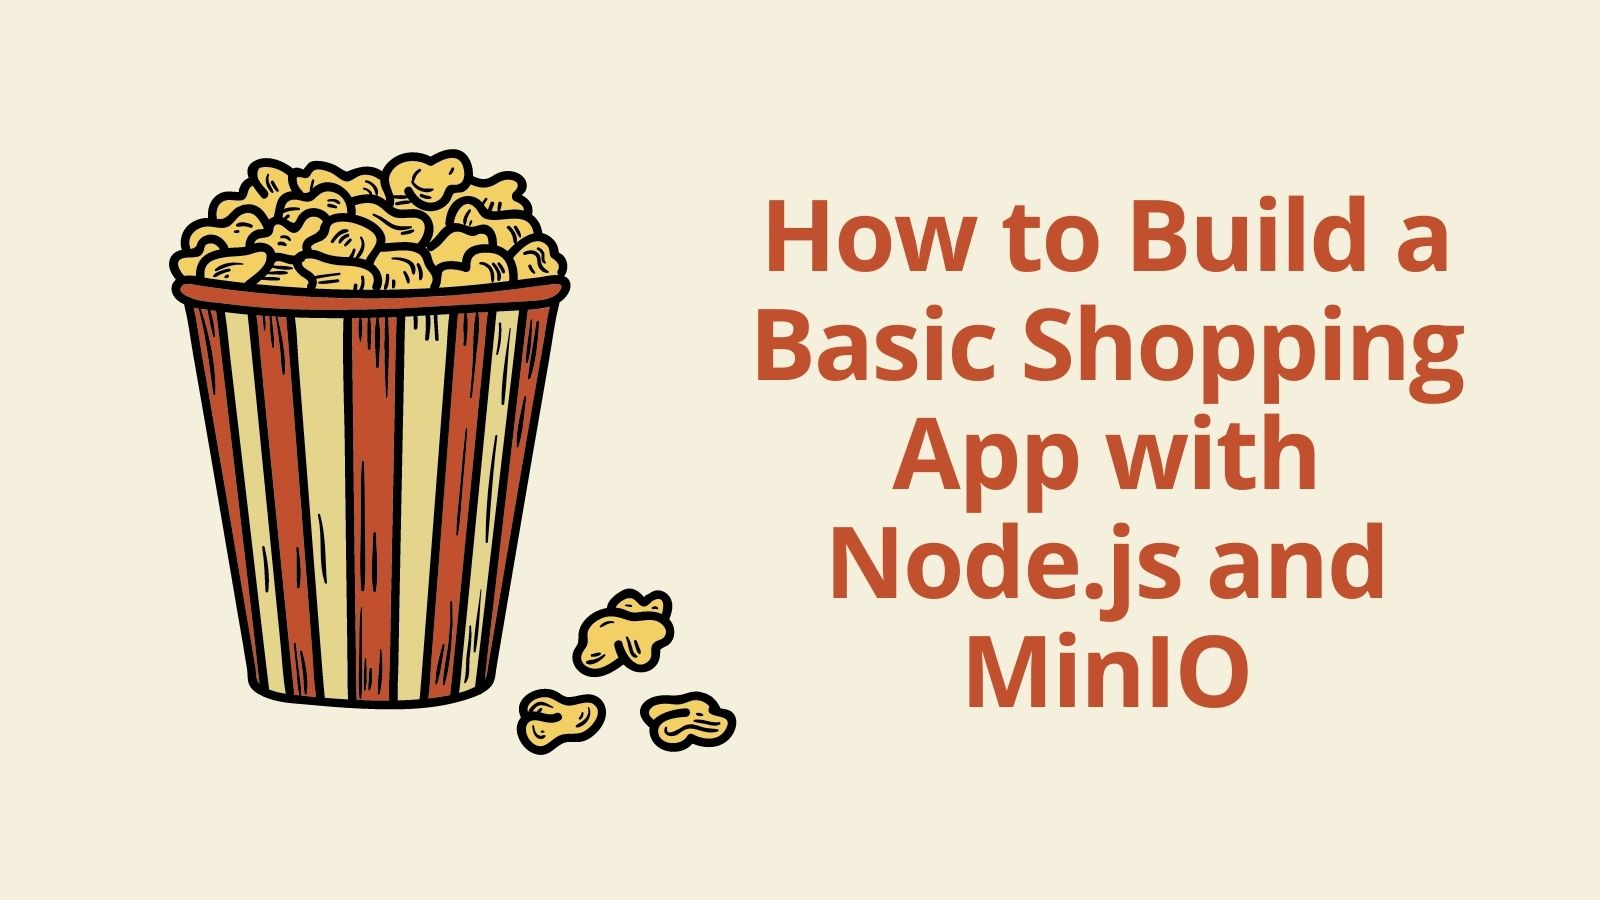
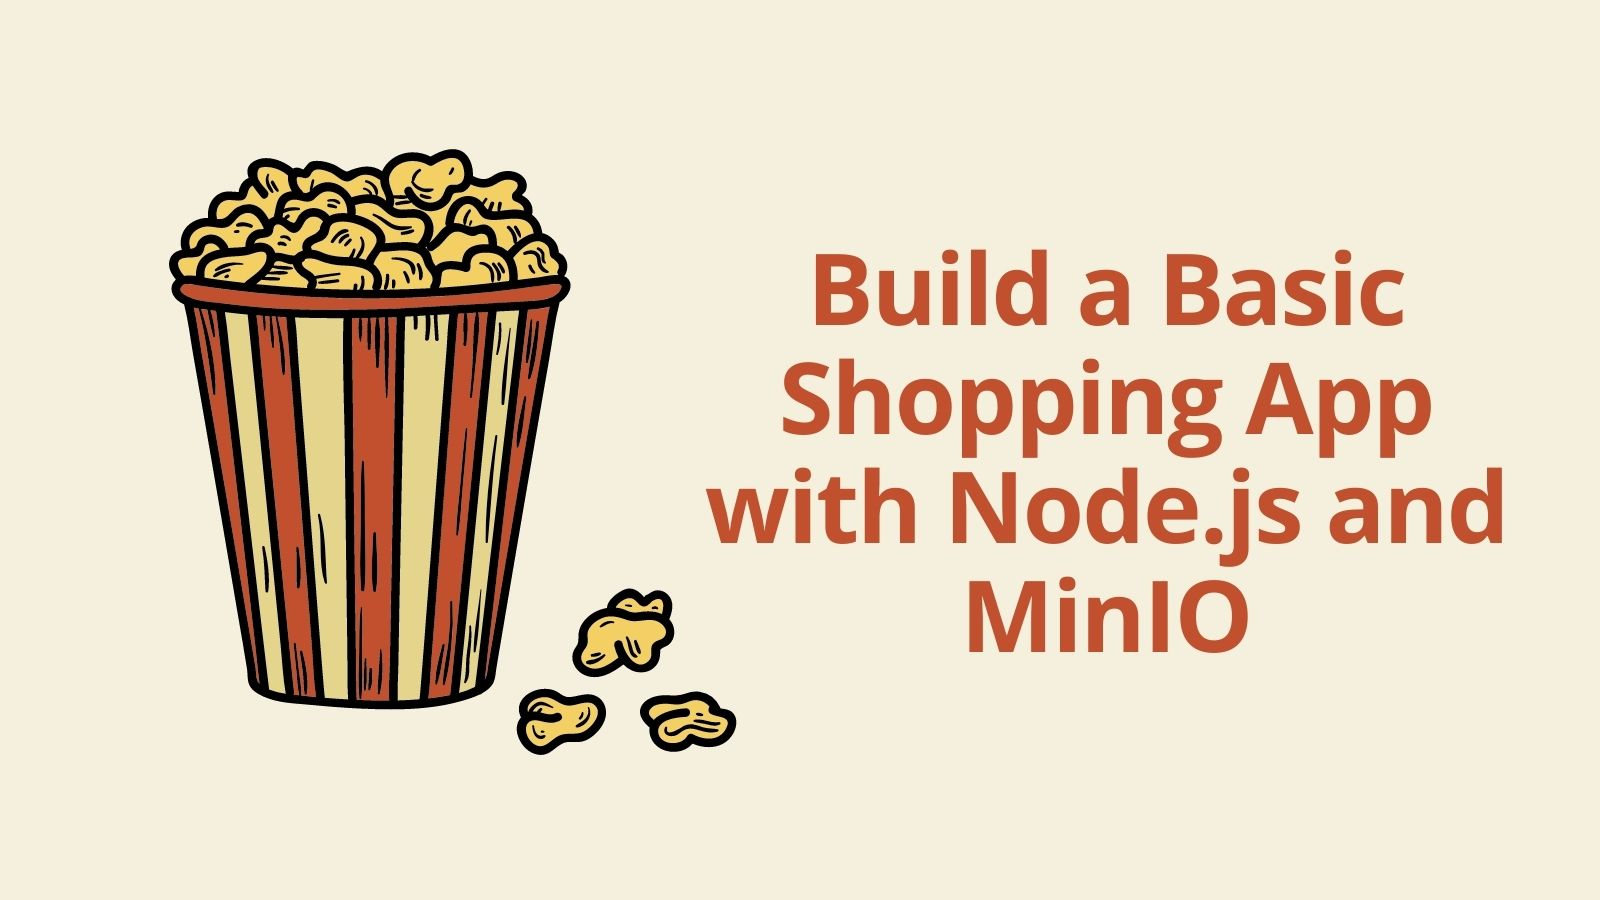
Minor updates

Changed region(s): [[0.4375, 0.2178, 0.9375, 0.8089]]

diff --git a/_source/_posts/2022-02-28-shopping-app-with-node-minio.md b/_source/_posts/2022-02-28-shopping-app-with-node-minio.md
@@ -1,18 +1,19 @@
 ---
 layout: blog_post
-title: How to Build a Basic Shopping App with Node.js and MinIO
+title: Build a Basic Shopping App with Node.js and MinIO
 author: deepa-mahalingam
 by: internal-contributor
 communities: [javascript]
-description: ""
+description: "A tutorial that shows you how to build a basic shopping app with Node.js and MinIO."
 tags: [sign-in-widget, okta, node, minio]
 type: conversion
 image: blog/shopping-app-with-node-minio/cover-image.jpg
 github: https://github.com/oktadev/okta-express-minio-app-example
 tweets:
+- "Learn how to build a basic shopping app with @nodejs and @Minio 🍿"
 ---
 
-These days, a lot of e-commerce solutions are built with Node.js. Typically, e-commerce applications have many images and video assets managed in object storage. As the number of products in an e-commerce store increases, so does the size of the object storage. We'll build our Node.js application with a Kubernetes-friendly object storage service called MinIO to scale with demand. Finally, we'll secure this scalable application with the Okta Sign-in Widget.
+These days, a lot of e-commerce applications use Node.js. Typically, e-commerce applications have many images and video assets managed in object storage. As the number of products in an e-commerce store increases, so does the size of the object storage. We'll build our Node.js application with a Kubernetes-friendly object storage service, MinIO, to scale with demand.
 
 This tutorial will guide you through the code to build a simple Node.js Shopping App with the Okta's Sign-In Widget for authentication and a [MinIO Server](https://min.io/) to host the store's assets. We will use Express as our application framework and Handlebars as the view engine. We will use the [MinIO Javascript Client SDK](https://docs.minio.io/docs/javascript-client-quickstart-guide) to fetch the application's image assets from the Minio Server.
 
@@ -37,20 +38,22 @@ If you'd like to skip the tutorial and just check out the fully built project, y
 
 ## Scaffold your application
  
-First, create a new directory for your `okta_commerce` application and navigate into it.
+Create a new directory for your application and navigate into it.
 
 ```sh
 mkdir okta-express-minio-app-example
 cd okta-express-minio-app-example
 ```
 
-Use the following command to create a `package.json` file for your application.
+Use the following command to create a `package.json` file for your application:
 
 ```sh
 npm init -y
 ```
 
-Now install the following dependencies in the `okta_commerce` directory.
+We need the `express` package for building our application, `express-handlebars` as the template engine and `minio` for programmatically accessing object storage. We need the `@okta/okta-signin-widget` package for authenticating users. We have added `@okta/oidc-middleware` and `express-session` so that you can continue to build this shopping app beyond the basics after this tutorial.
+
+Run the following command to install these dependencies:
 
 ```sh
 npm i express@4
@@ -61,24 +64,43 @@ npm i @okta/oidc-middleware@4
 npm i @okta/okta-signin-widget@5
 ```
 
-## Set up authentication With Okta
+## Set up authentication with Okta
 
 Dealing with user authentication in web apps can be a massive pain for every developer. This is where Okta shines: it helps you secure your web applications with minimal effort. 
 
 {% include setup/cli.md type="spa" loginRedirectUri="http://localhost:3000/callback" logoutRedirectUri="http://localhost:3000/" %}
 
-Configure your Okta tenant so that Security > Profile Enrollment > Self-Service Registration is enabled for your application.
+Configure the Okta tenant so that *Security* > *Profile Enrollment* > *Self-Service Registration* is enabled for your application.
 
-Configure your Okta tenant so that Security > Authenticators > Password has a rule that allows for password unlock for your application.
+{% img
+blog/shopping-app-with-node-minio/SSPR.png
+alt:"SSPR"
+width:"100%" %}
+
+Configure the Okta tenant so that *Security* > *Authenticators* > *Password* has a rule that allows for password unlock for your application.
+
+{% img
+blog/shopping-app-with-node-minio/Unlock.png
+alt:"Unlock"
+width:"100%" %}
+
+Add a new folder called `public` in the project directory and inside it create a folder called `js`. Create a new file in the `js` folder named `okta-config.js`. Add the following code to it:
+
+```js
+const credentials = {
+    domain: 'https://{yourOktaDomain}',
+    clientId: '{clientId}'
+};
+```
+
+**NOTE**: Make sure to replace the placeholder values with your actual Okta credentials.
 
 
 ## Setup MinIO object storage
 
 There are three steps when setting up the assets. 
 
-### Create the bucket on MinIO play server
-
-We've created a public minio server https://play.minio.io:9000 for developers to use as a sandbox. Minio Client `mc` is  preconfigured to use the play server.  
+**Create the bucket on MinIO play server:** We've created a public MinIO server https://play.minio.io:9000 for developers to use as a sandbox. MinIO Client `mc` is  preconfigured to use the play server.  
 
 [Make a bucket](https://docs.minio.io/docs/minio-client-complete-guide#mb) called `okta-commerce` on play.minio.io using the following command: 
 
@@ -86,17 +108,13 @@ We've created a public minio server https://play.minio.io:9000 for developers to
 mc mb play/okta-commerce
 ```
 
-### Set up bucket policy on MinIO play server
-
-Store product image assets can be set to public readwrite. Use `mc policy` command to set the [access policy](https://docs.minio.io/docs/minio-client-complete-guide#policy) on this bucket to "both". 
+**Set up bucket policy on MinIO play server:** Store product image assets can be set to public readwrite. Use `mc policy` command to set the [access policy](https://docs.minio.io/docs/minio-client-complete-guide#policy) on this bucket to "both". 
 
 ```sh
 mc policy set public play/okta-commerce
 ```
 
-### Copy store's assets to MinIO bucket
-
-[Upload](https://docs.minio.io/docs/minio-client-complete-guide#cp) store product pictures into this bucket. You can use these pictures:
+**Copy store's assets to MinIO bucket:** [Upload](https://docs.minio.io/docs/minio-client-complete-guide#cp) store product pictures into this bucket. You can use these pictures:
 
 {% img
 blog/shopping-app-with-node-minio/coffee-1.jpg
@@ -113,7 +131,7 @@ blog/shopping-app-with-node-minio/coffee-4.jpg
 alt:"Sample Image 4"
 width:"50%" %}
 
-Use the `mc cp` command for this: 
+Use the `mc cp` command: 
 
 ```sh
 mc cp ~/Downloads/coffee-1.jpg play/okta-commerce/
@@ -126,7 +144,7 @@ mc cp ~/Downloads/coffee-4.jpg play/okta-commerce/
 
 ## Build your application with Express
 
-We need to create the Express server to run our application. Create a new file called `index.js` in the project root and add the following code to it.
+We need to create the Express server to run our application. Create a new file called `index.js` in the project root and add the following code to it:
 
 ```js
 var express = require('express');
@@ -195,7 +213,7 @@ Here we have defined the different routes for the different functionalities of t
 You can add further functionality to the callback route to exchange code for tokens and store the details for the logged in users using `express-session`.
 
 
-## Access the MinIO assets programmatically
+## Access MinIO assets programmatically
 
 There are two steps in programmatically accessing your assets inside your JavaScript application. Create a new folder called `services` and add a new file called `minio-handler.js`. Add the following code to it:
 
@@ -232,9 +250,9 @@ module.exports = assets;
 
 In the `services/minio-handler.js` file, we import `minio` and instantiate a `minioClient` object with the play server's endpoint, port and access keys. Access & Secret keys to the play server are open to public use.
 
-We use the [listObjects]( https://docs.minio.io/docs/javascript-client-api-reference#listObjects) method to get a list of all the files from the minio-store bucket. `listObjects` returns product URLs which are pushed into an array called `assets`. We will export this array so that it can be imported into the different routes of the application.
+We use the [listObjects]( https://docs.minio.io/docs/javascript-client-api-reference#listObjects) method to get a list of all the files from the minio-store bucket. `listObjects` returns product URLs which are pushed into an array called `assets`. We will export this array so that it can be imported into the different routes of the application defined in the `index.js` file.
 
-**NOTE**: When running minio server locally also add `secure: false,` to the code above.
+**NOTE**: If you are running a MinIO server locally, add `secure: false,` to the code above.
 
 
 ## Create views for the application
@@ -577,18 +595,6 @@ blog/shopping-app-with-node-minio/forgot-password.png
 alt:"Forgot password page"
 width:"100%" %}
 
-## Configure Okta credentials
-
-Add a new folder called `public` in the project directory and inside it create a folder called `js`. Create a new file in the `js` folder named `okta-config.js`. Add the following code to it:
-
-```js
-const credentials = {
-    domain: 'https://{yourOktaDomain}',
-    clientId: '{clientId}'
-};
-```
-
-**NOTE**: Make sure to replace the placeholder values with your actual Okta credentials.
 
 ## Style your application
 
@@ -671,23 +677,6 @@ body {
 }	
 ```
 
-## Set up Okta tenant
-
-Configure the Okta tenant so that Security > Profile Enrollment > Self-Service Registration is enabled for your application.
-
-{% img
-blog/shopping-app-with-node-minio/SSPR.png
-alt:"SSPR"
-width:"100%" %}
-
-Configure the Okta tenant so that Security > Authenticators > Password has a rule that allows for password unlock for your application.
-
-{% img
-blog/shopping-app-with-node-minio/Unlock.png
-alt:"Unlock"
-width:"100%" %}
-
-
 ## Run your application
 
 Run the following command to start the app server:
@@ -701,7 +690,7 @@ To see the app, open a browser window and visit `http://localhost:3000`. Now log
 
 ## Do more with Node and MinIO
 
-We have set up an e-commerce app with node.js, express.js and minio and secured access to the store with the customer hosted Okta Sign-In Widget all within a few minutes. We have also learnt how to use the `flow` parameter to bootstrap Okta's Sign-In Widget for different pages within your application. Hope you enjoyed this tutorial. Let us know if you have any questions.
+We have set up a basic e-commerce app with Node.js, Express, and MinIO. We secured access to the store with the Okta Sign-In Widget. We also learned how to use the `flow` parameter to bootstrap Okta's Sign-In Widget for different pages within your application.
 
 If you'd like to learn more about building web apps with Node.js, you might want to check out these other great posts:
 
